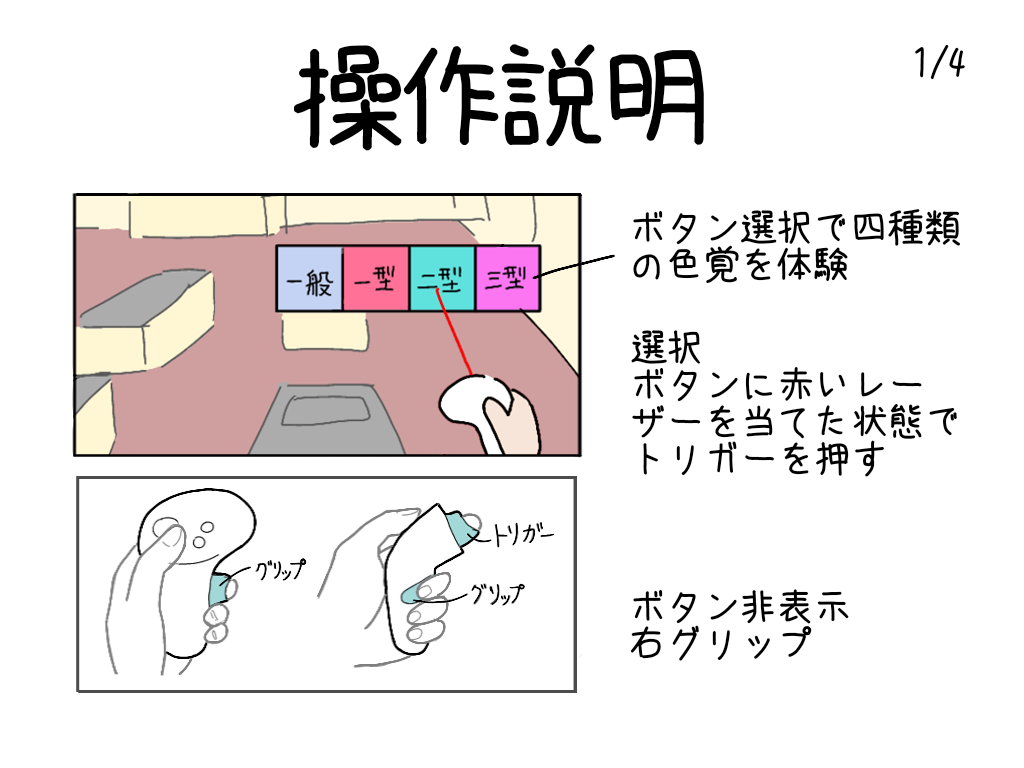
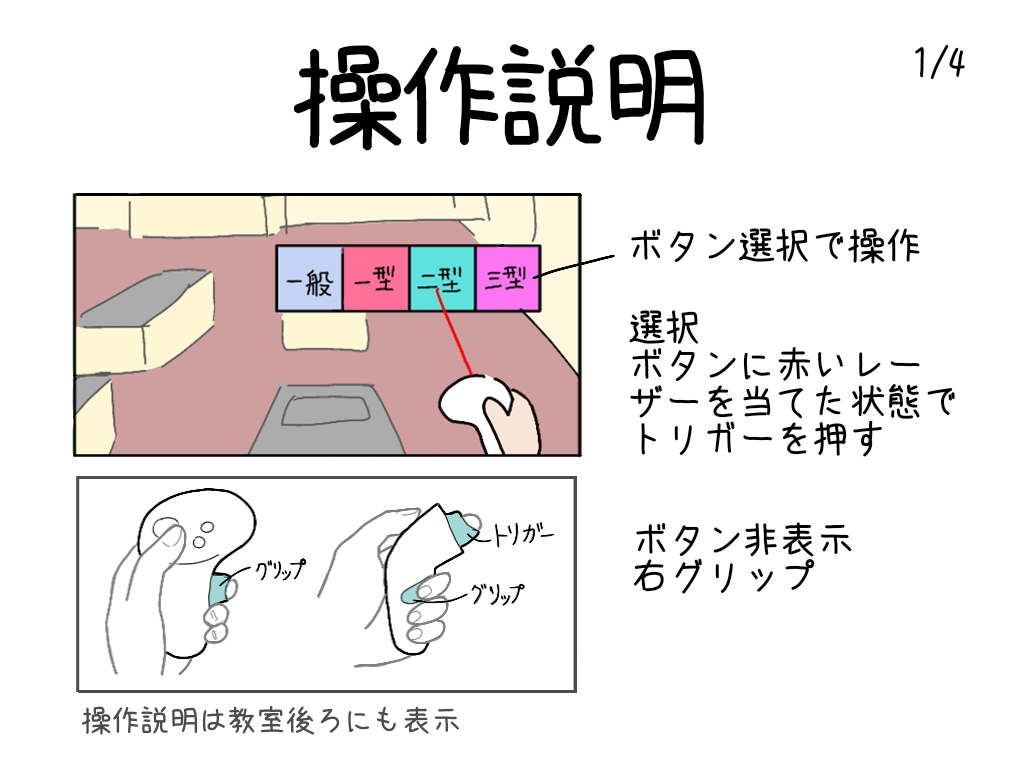
Add files via upload

diff --git a/index.html b/index.html
@@ -32,6 +32,7 @@
     <a-gltf-model class="kitchen" src="3Dmodel/kitchen_s.glb" position="-4 0.05 -7" rotation="0 90 0"></a-gltf-model>
     <!-- 教室 -->
     <a-gltf-model class="classroom" src="3Dmodel/classroom.glb" position="0 0 -2" rotation="0 90 0"></a-gltf-model>
+    <a-image id="blackboard" class="classimg" src="blackboard.png" position="-2.5 1.5 -10.5" scale="2 1 1"></a-image>
     <!-- 肉 -->
     <a-gltf-model id="niku_0" src="yakiniku/yakiniku_00_c.glb" position="0.05 0 -4.04" rotation="0 90 0">
     </a-gltf-model>
@@ -42,10 +43,14 @@
     <!-- はし -->
     <a-gltf-model src="3Dmodel/simple_chopsticks.glb" scale="0.1 0.1 0.1" position="0.1 0.63 -0.7" rotation="0 110 0">
     </a-gltf-model>
+    <!-- 操作説明（教室） -->
+    <a-image class="classimg" src="sousa_1.png" position="0.5 2.3 1.25" rotation="0 180 0" scale="1.5 1 1"></a-image>
+    <a-image class="classimg" src="sousa_2.png" position="-1.2 2.3 1.25" rotation="0 180 0" scale="1.5 1 1"></a-image>
+    <a-image class="classimg" src="sousa_3.png" position="0.5 1.1 1.25" rotation="0 180 0" scale="1.5 1 1"></a-image>
 
     <!-- 画像を3枚用意して切り替える -->
-    <a-image id="introImage" src="1.jpeg" position="0 1.5 -3" width="2.3" height="1.6"></a-image>
-    <a-image id="introSousa" src="sousa_0.png" position="0 0.7 -3" width="2.3" height="0.5"></a-image>
+    <a-image id="introImage" src="1.jpeg" position="0 1.8 -3" width="2.3" height="1.6"></a-image>
+    <a-image id="introSousa" src="sousa_0.png" position="0 1.0 -3" width="2.3" height="0.5"></a-image>
 
 
     <!-- ctrl+Alt+iでテストモード -->
@@ -63,16 +68,16 @@
         </a-image>
         <!-- 色変更 -->
         <a-image src="button/1pan_1.jpeg"
-          btn="hover: button/1pan_2.jpeg; clearedHover: button/1pan_1.jpeg; sky: #C0E5F0; room: 3Dmodel/classroom.glb; kitchen: 3Dmodel/kitchen_s.glb; niku_0: yakiniku_00_c.glb; niku_1: yakiniku_01_c.glb; niku_2: yakiniku_02_c.glb"
+          btn="hover: button/1pan_2.jpeg; clearedHover: button/1pan_1.jpeg; sky: #C0E5F0; room: 3Dmodel/classroom.glb; kitchen: 3Dmodel/kitchen_s.glb; niku_0: yakiniku_00_c.glb; niku_1: yakiniku_01_c.glb; niku_2: yakiniku_02_c.glb; blackboard: blackboard.png"
           class="collidable" data-type="color_btn" position="0 0 -1.3" height="0.2" width="0.2"></a-image>
         <a-image src="button/1gata_1.jpeg"
-          btn="hover: button/1gata_2.jpeg; clearedHover: button/1gata_1.jpeg; sky: #DDE2F1; room: 3Dmodel/classroom_1.glb; kitchen: 3Dmodel/kitchen_s1.glb; niku_0: yakiniku_00_p.glb; niku_1: yakiniku_01_p.glb; niku_2: yakiniku_02_p.glb"
+          btn="hover: button/1gata_2.jpeg; clearedHover: button/1gata_1.jpeg; sky: #DDE2F1; room: 3Dmodel/classroom_1.glb; kitchen: 3Dmodel/kitchen_s1.glb; niku_0: yakiniku_00_p.glb; niku_1: yakiniku_01_p.glb; niku_2: yakiniku_02_p.glb; blackboard: blackboard_p.png"
           class="collidable" data-type="color_btn" position="0.2 0 -1.3" height="0.2" width="0.2"></a-image>
         <a-image src="button/2gata_1.jpeg"
-          btn="hover: button/2gata_2.jpeg; clearedHover: button/2gata_1.jpeg; sky: #D6DCF0; room: 3Dmodel/classroom_2.glb; kitchen: 3Dmodel/kitchen_s2.glb; niku_0: yakiniku_00_d.glb; niku_1: yakiniku_01_d.glb; niku_2: yakiniku_02_d.glb"
+          btn="hover: button/2gata_2.jpeg; clearedHover: button/2gata_1.jpeg; sky: #D6DCF0; room: 3Dmodel/classroom_2.glb; kitchen: 3Dmodel/kitchen_s2.glb; niku_0: yakiniku_00_d.glb; niku_1: yakiniku_01_d.glb; niku_2: yakiniku_02_d.glb; blackboard: blackboard_d.png"
           class="collidable" data-type="color_btn" position="0.4 0 -1.3" height="0.2" width="0.2"></a-image>
         <a-image src="button/3gata_1.jpeg"
-          btn="hover: button/3gata_2.jpeg; clearedHover: button/3gata_1.jpeg; sky: #B2E9E8; room: 3Dmodel/classroom_3.glb; kitchen: 3Dmodel/kitchen_s3.glb; niku_0: yakiniku_00_t.glb; niku_1: yakiniku_01_t.glb; niku_2: yakiniku_02_t.glb"
+          btn="hover: button/3gata_2.jpeg; clearedHover: button/3gata_1.jpeg; sky: #B2E9E8; room: 3Dmodel/classroom_3.glb; kitchen: 3Dmodel/kitchen_s3.glb; niku_0: yakiniku_00_t.glb; niku_1: yakiniku_01_t.glb; niku_2: yakiniku_02_t.glb; blackboard: blackboard_t.png"
           class="collidable" data-type="color_btn" position="0.6 0 -1.3" height="0.2" width="0.2"></a-image>
         <!-- お手本表示 -->
         <a-image src="button/yaku_2.jpeg" btn="hover: button/yaku_1.jpeg; clearedHover: button/yaku_1.jpeg;" btn
@@ -92,6 +97,7 @@
   <script>
     // 変数
     const aGltfModel = document.querySelectorAll('a-gltf-model');
+    const classImg = document.querySelectorAll('.classimg');
     const collidable = document.querySelectorAll('.collidable');
     const sample = document.getElementById('sample');
     let ctlR = document.querySelector('#ctlR');
@@ -121,6 +127,9 @@
     aGltfModel.forEach(m => {
       m.setAttribute('visible', 'false');
     });
+    classImg.forEach(m => {
+      m.setAttribute('visible', 'false');
+    });
     collidable.forEach(m => {
       m.setAttribute('visible', 'false');
     });
@@ -135,12 +144,15 @@
       if (imageNumber == 6) {
         aGltfModel.forEach(m => {
           m.setAttribute('visible', 'true');
-          introSousa.setAttribute('visible', 'false');
         });
+        classImg.forEach(m => {
+          m.setAttribute('visible', 'true');
+        })
       } else if (imageNumber >= imageList.length) {
         collidable.forEach(m => {
           m.setAttribute('visible', 'true');
         })
+        introSousa.setAttribute('visible', 'false');
         introImage.setAttribute('visible', 'false');
       }
     });
@@ -202,7 +214,8 @@
         kitchen: { type: "string" },
         niku_0: { type: "string" },
         niku_1: { type: "string" },
-        niku_2: { type: "string" }
+        niku_2: { type: "string" },
+        blackboard: {type: "string"}
       },
 
       init: function () {
@@ -215,6 +228,7 @@
         const niku_0 = document.getElementById("niku_0");
         const niku_1 = document.getElementById("niku_1");
         const niku_2 = document.getElementById("niku_2");
+        const blackboard = document.getElementById("blackboard");
         let isHovering = false;
 
         ctlR.addEventListener("raycaster-intersection", (e) => {
@@ -281,7 +295,7 @@
               // mesh0 をフェードアウト
               let allZero = true;
               meshes0.forEach(mesh0 => {
-                mesh0.material.opacity -= 0.05;
+                mesh0.material.opacity -= 0.003;
                 if (mesh0.material.opacity < 0) mesh0.material.opacity = 0;
                 if (mesh0.material.opacity > 0) allZero = false;
                 opacity_0 = mesh0.material.opacity;
@@ -294,7 +308,7 @@
             } else {
               // mesh2 をフェードイン
               meshes2.forEach(mesh2 => {
-                mesh2.material.opacity += 0.05;
+                mesh2.material.opacity += 0.002;
                 if (mesh2.material.opacity > 1) mesh2.material.opacity = 1;
                 opacity_2 = mesh2.material.opacity;
               });
@@ -336,6 +350,7 @@
             niku_0.setAttribute("src", "yakiniku/" + this.data.niku_0);
             niku_1.setAttribute("src", "yakiniku/" + this.data.niku_1);
             niku_2.setAttribute("src", "yakiniku/" + this.data.niku_2);
+            blackboard.setAttribute("src", this.data.blackboard);
           });
         }
       }
